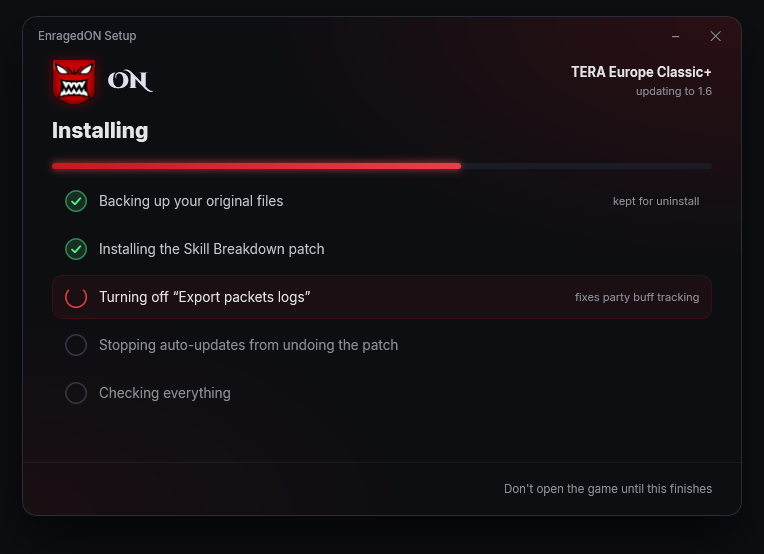
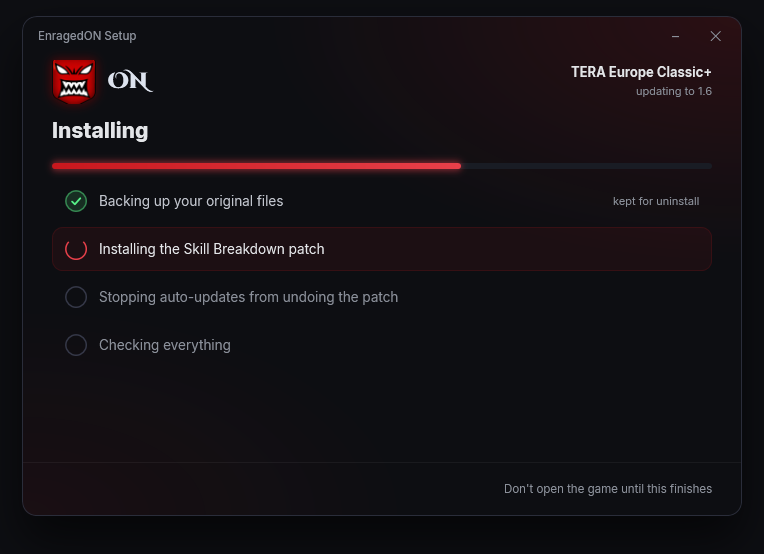
ui: drop the 'Export packets logs' line from the progress screen
The option name means nothing to a player and only raises questions mid
install. The setting is still turned off, now as part of installing the patch
instead of a step of its own.

diff --git a/installer/Core/PatchOps.cs b/installer/Core/PatchOps.cs
@@ -28,7 +28,7 @@ public static class PatchOps
     static readonly UTF8Encoding Utf8NoBom = new(false);
     static readonly JsonSerializerOptions JsonOut = new() { WriteIndented = true, Encoder = JavaScriptEncoder.UnsafeRelaxedJsonEscaping };
 
-    public static string[] InstallSteps => new[] { L.StepBackup, L.StepPatch, L.StepPackets, L.StepAutoUpdate, L.StepVerify };
+    public static string[] InstallSteps => new[] { L.StepBackup, L.StepPatch, L.StepAutoUpdate, L.StepVerify };
     public static string[] UninstallSteps => new[] { L.StepRestore, L.StepCleanup, L.StepVerify };
 
     public const int StepDelayMs = 320;
@@ -36,10 +36,11 @@ public static class PatchOps
     public static async Task InstallAsync(MeterInfo m, IProgress<StepReport> progress)
     {
         await Run(progress, 0, L.StepBackupNote, () => { Backup(m); return null; });
-        await Run(progress, 1, null, () => { WriteDll(m); return null; });
-        await Run(progress, 2, L.StepPacketsNote, () => TurnOffPacketExport(m.Folder) ? null : L.NoteNotNeeded);
-        await Run(progress, 3, null, () => KeepPatchOnUpdate(m.Folder) ? null : L.NoteNotNeeded);
-        await Run(progress, 4, null, () => { VerifyInstall(m); return null; });
+        // "Export packets logs" is turned off as part of installing, without a step of its
+        // own: the option's name means nothing to a player and only adds confusion.
+        await Run(progress, 1, null, () => { WriteDll(m); TurnOffPacketExport(m.Folder); return null; });
+        await Run(progress, 2, null, () => KeepPatchOnUpdate(m.Folder) ? null : L.NoteNotNeeded);
+        await Run(progress, 3, null, () => { VerifyInstall(m); return null; });
     }
 
     public static async Task UninstallAsync(MeterInfo m, IProgress<StepReport> progress)

diff --git a/installer/Core/L.cs b/installer/Core/L.cs
@@ -68,8 +68,6 @@ public static class L
     public static string StepBackup => T("Backing up your original files", "Fazendo backup dos seus arquivos originais");
     public static string StepBackupNote => T("kept for uninstall", "guardado para desinstalar");
     public static string StepPatch => T("Installing the Skill Breakdown patch", "Instalando o patch Skill Breakdown");
-    public static string StepPackets => T("Turning off “Export packets logs”", "Desligando “Export packets logs”");
-    public static string StepPacketsNote => T("fixes party buff tracking", "corrige os buffs da party");
     public static string StepAutoUpdate => T("Stopping auto-updates from undoing the patch", "Impedindo o auto-update de desfazer o patch");
     public static string StepVerify => T("Checking everything", "Conferindo tudo");
     public static string StepRestore => T("Restoring your original files", "Restaurando seus arquivos originais");

diff --git a/installer/MainWindow.xaml.cs b/installer/MainWindow.xaml.cs
@@ -497,8 +497,7 @@ public partial class MainWindow : Window
 
         var steps = PatchOps.InstallSteps.Select(t => new StepVM { Text = t }).ToList();
         steps[0].Status = StepStatus.Done; steps[0].Note = L.StepBackupNote;
-        steps[1].Status = StepStatus.Done;
-        steps[2].Status = StepStatus.Active; steps[2].Note = L.StepPacketsNote;
+        steps[1].Status = StepStatus.Active;
         StepList.ItemsSource = steps;
         ProgressTitle.Text = L.Installing;
         ProgressBrand.Content = BuildBrand(cp.KindName, string.Format(L.SubUpdateFmt, Payload.Version));
